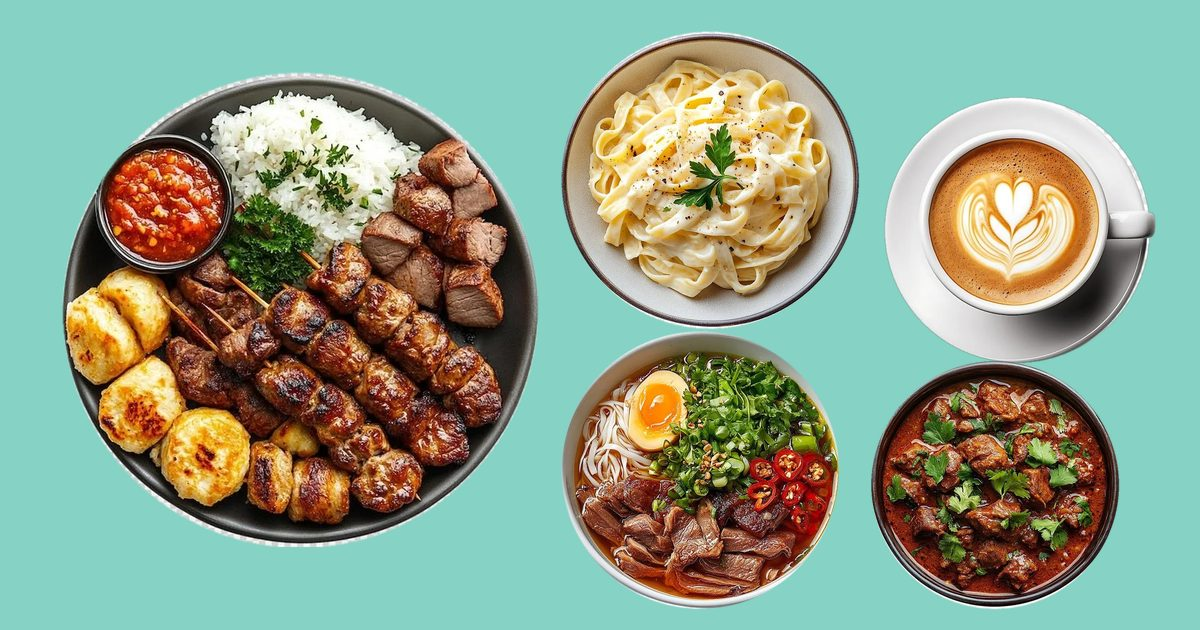
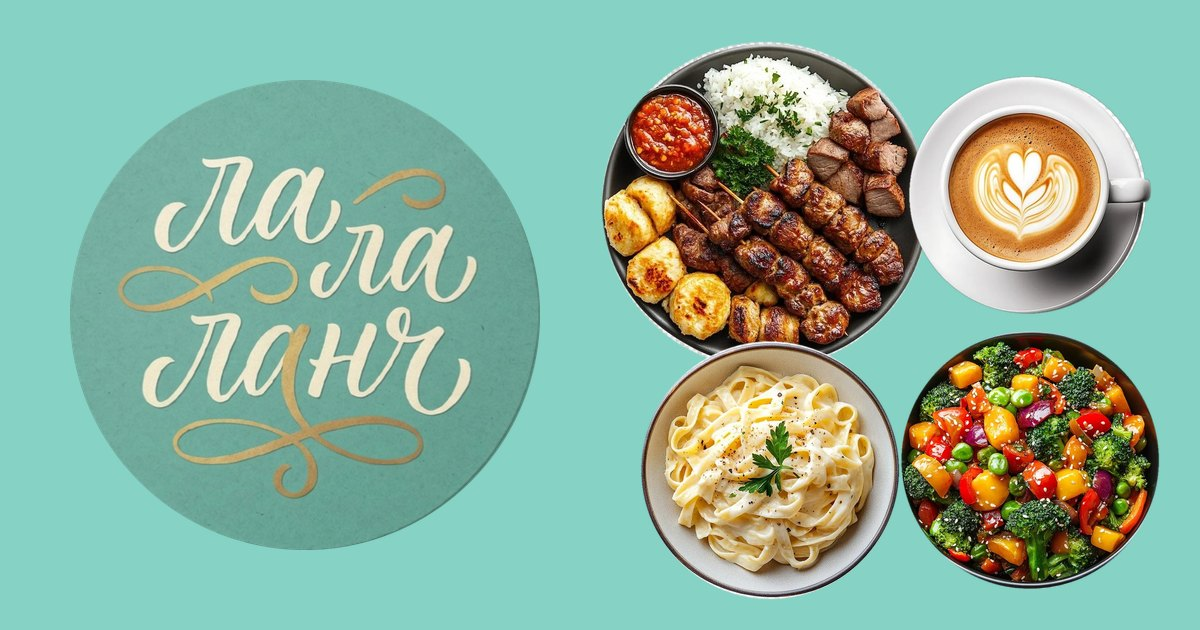
Update og image

diff --git a/index.html b/index.html
@@ -12,10 +12,22 @@
   <meta name="apple-mobile-web-app-status-bar-style" content="default">
   <meta name="apple-mobile-web-app-title" content="Ла Ла Ланч">
   <meta name="format-detection" content="telephone=no">
+  <!-- link previews (Instagram, Telegram, MAX, WhatsApp): image and url must be absolute -->
+  <link rel="canonical" href="https://mavlitov98.github.io/la-la-lunch/">
   <meta property="og:type" content="website">
-  <meta property="og:title" content="Ла Ла Ланч">
-  <meta property="og:description" content="Меню с ценами и заказ навынос. Ставрополь, ЖК Суворов.">
-  <meta property="og:image" content="img/og.jpg">
+  <meta property="og:site_name" content="Ла Ла Ланч">
+  <meta property="og:locale" content="ru_RU">
+  <meta property="og:url" content="https://mavlitov98.github.io/la-la-lunch/">
+  <meta property="og:title" content="Ла Ла Ланч, кулинария в Ставрополе">
+  <meta property="og:description" content="Меню с ценами и заказ навынос. ЖК Суворов, ул. Алексея Яковлева, 3/1.">
+  <meta property="og:image" content="https://mavlitov98.github.io/la-la-lunch/img/og.jpg">
+  <meta property="og:image:secure_url" content="https://mavlitov98.github.io/la-la-lunch/img/og.jpg">
+  <meta property="og:image:type" content="image/jpeg">
+  <meta property="og:image:width" content="1200">
+  <meta property="og:image:height" content="630">
+  <meta property="og:image:alt" content="Логотип Ла Ла Ланч и блюда из меню">
+  <meta name="twitter:card" content="summary_large_image">
+  <meta name="twitter:image" content="https://mavlitov98.github.io/la-la-lunch/img/og.jpg">
   <link rel="apple-touch-icon" href="img/icon-180.png">
   <link rel="icon" href="favicon.ico" sizes="48x48">
   <link rel="icon" type="image/png" sizes="32x32" href="img/favicon-32.png">
